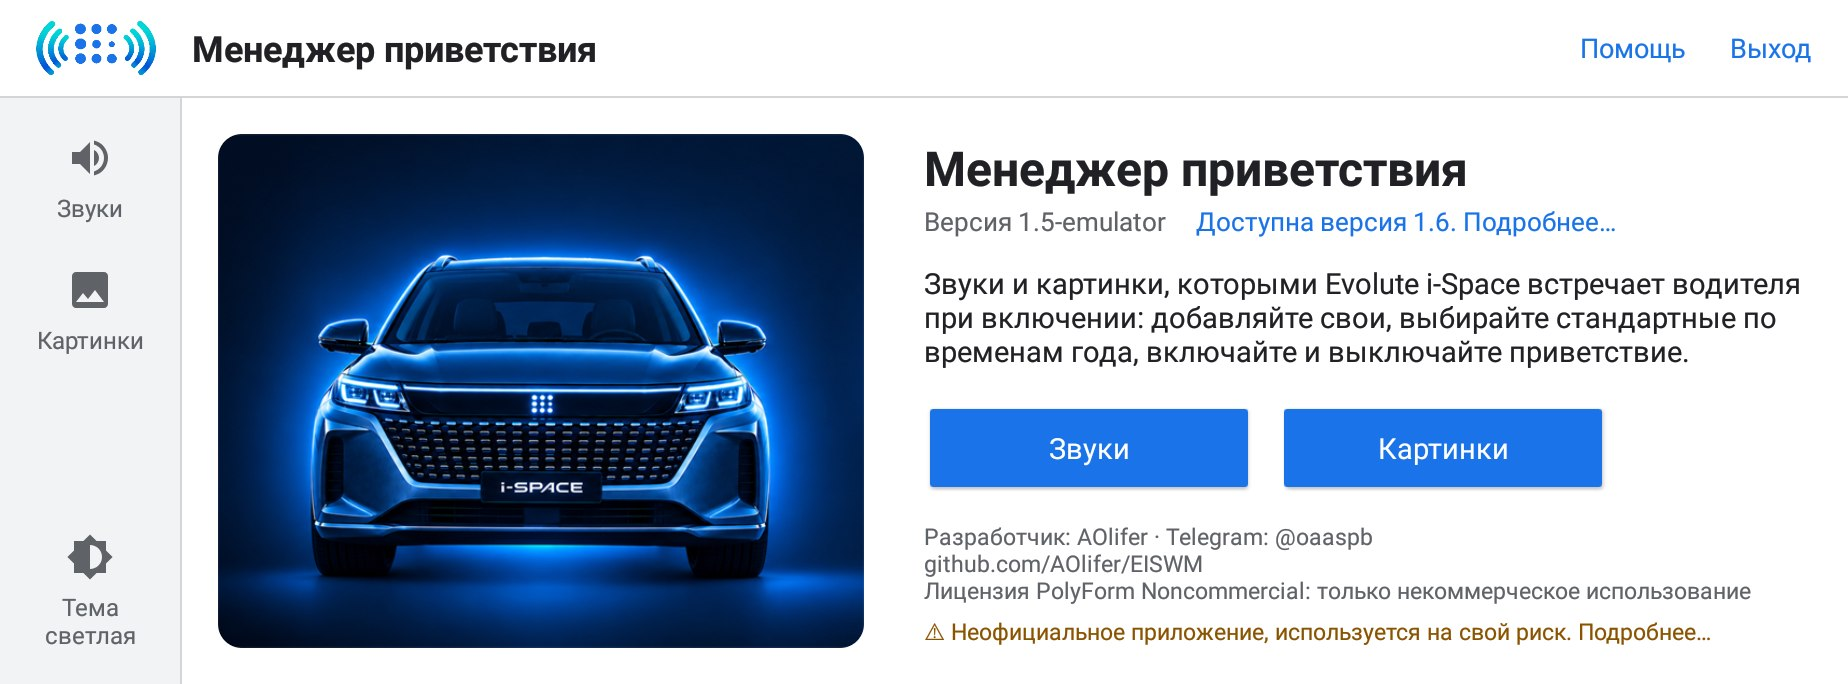
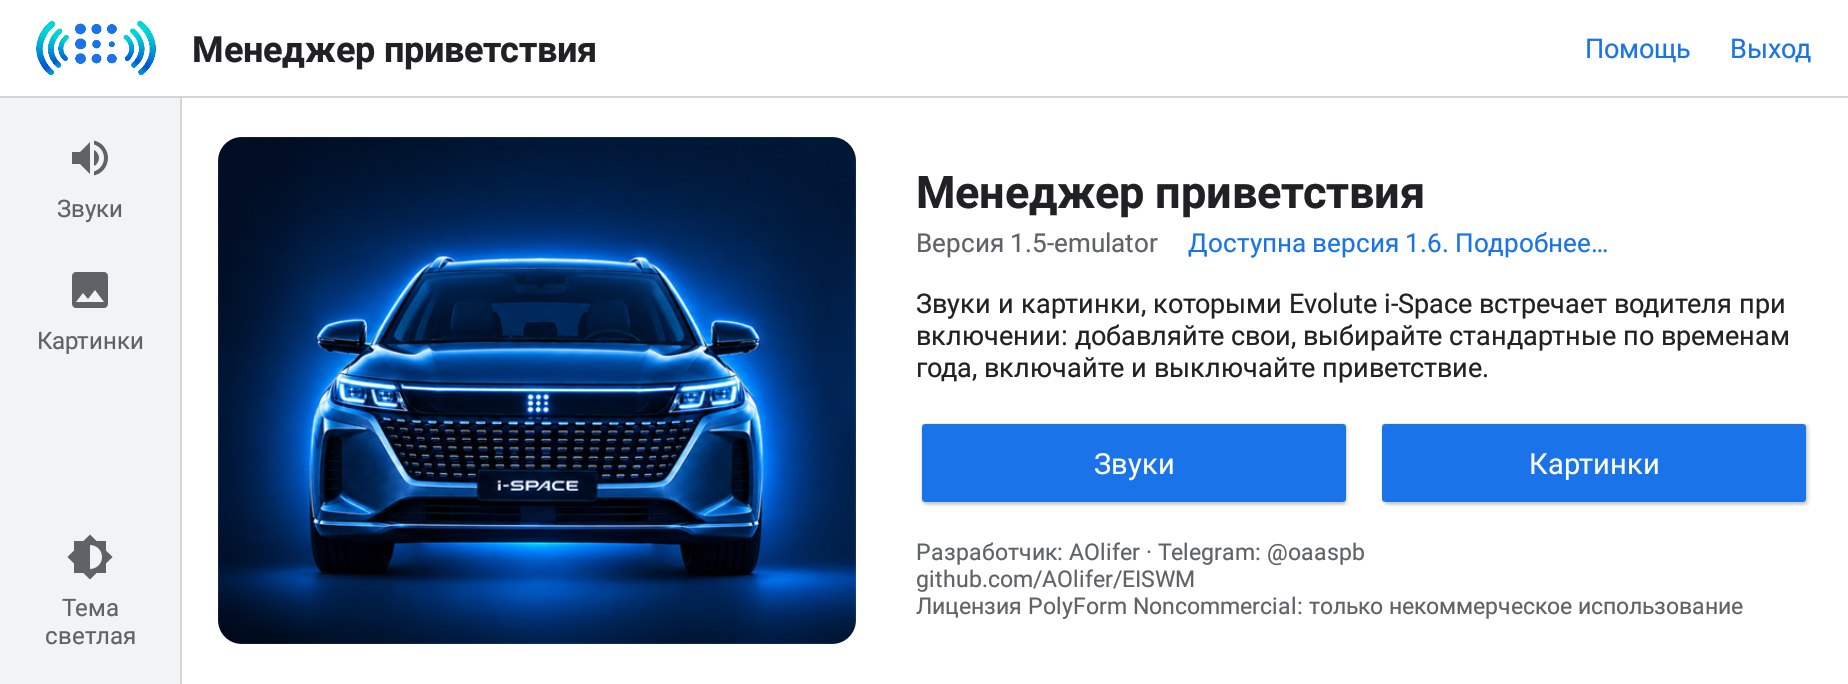
Предупреждение перенесено в «Помощь», вёрстка для окна не во весь экран

diff --git a/app/src/main/java/com/eiswm/MainActivity.java b/app/src/main/java/com/eiswm/MainActivity.java
@@ -274,6 +274,9 @@ public class MainActivity extends BaseActivity implements AudioPreview.Listener 
     private void setupHome() {
         homePanel = findViewById(R.id.homePanel);
         findViewById(R.id.homeImage).setClipToOutline(true);
+        homePanel.addOnLayoutChangeListener((v, l, t, r, b, ol, ot, or, ob) -> {
+            if (r - l != or - ol || b - t != ob - ot) v.post(this::fitHomeImage);
+        });
         String version = "";
         try {
             version = getPackageManager().getPackageInfo(getPackageName(), 0).versionName;
@@ -282,7 +285,6 @@ public class MainActivity extends BaseActivity implements AudioPreview.Listener 
         ((TextView) findViewById(R.id.homeVersion)).setText(getString(R.string.home_version, version));
         findViewById(R.id.homeSounds).setOnClickListener(v -> showSection(0));
         findViewById(R.id.homePictures).setOnClickListener(v -> showSection(1));
-        findViewById(R.id.homeDisclaimer).setOnClickListener(v -> showDisclaimer(false));
         findViewById(R.id.logo).setOnClickListener(v -> showSection(-1));
         findViewById(R.id.appTitle).setOnClickListener(v -> showSection(-1));
 
@@ -435,6 +437,26 @@ public class MainActivity extends BaseActivity implements AudioPreview.Listener 
     }
 
     /**
+     * Картинка стартового экрана во всю высоту панели, но не шире 40% её ширины: приложение
+     * бывает открыто не во весь экран (например, рядом с панелью лаунчера), и тексту нужно место.
+     */
+    private void fitHomeImage() {
+        View image = findViewById(R.id.homeImage);
+        android.graphics.drawable.Drawable d = ((android.widget.ImageView) image).getDrawable();
+        int availH = homePanel.getHeight() - homePanel.getPaddingTop() - homePanel.getPaddingBottom();
+        int availW = homePanel.getWidth() - homePanel.getPaddingLeft() - homePanel.getPaddingRight();
+        if (d == null || availH <= 0 || availW <= 0 || d.getIntrinsicHeight() <= 0) return;
+        float aspect = (float) d.getIntrinsicWidth() / d.getIntrinsicHeight();
+        int w = Math.min(Math.round(availH * aspect), Math.round(availW * 0.4f));
+        int h = Math.round(w / aspect);
+        LinearLayout.LayoutParams lp = (LinearLayout.LayoutParams) image.getLayoutParams();
+        if (lp.width == w && lp.height == h) return;
+        lp.width = w;
+        lp.height = h;
+        image.setLayoutParams(lp);
+    }
+
+    /**
      * Отказ от ответственности (полный текст — DISCLAIMER.md в репозитории).
      * @param firstRun показывается сам при первом запуске; после «Понятно» больше не появляется.
      */
@@ -453,8 +475,9 @@ public class MainActivity extends BaseActivity implements AudioPreview.Listener 
         if (currentSection < 0) {
             new AlertDialog.Builder(this)
                     .setTitle(R.string.app_name)
-                    .setMessage(R.string.home_help)
+                    .setMessage(getString(R.string.home_help) + "\n\n" + getString(R.string.home_disclaimer_short))
                     .setPositiveButton(R.string.got_it, null)
+                    .setNeutralButton(R.string.disclaimer_title, (d, w) -> showDisclaimer(false))
                     .show();
             return;
         }

diff --git a/app/src/main/java/com/eiswm/PicturesPanel.java b/app/src/main/java/com/eiswm/PicturesPanel.java
@@ -208,7 +208,7 @@ final class PicturesPanel {
                 : activity.getString(R.string.pictures_header));
         btnSelectAll.setEnabled(!busy && !current.isEmpty() && n < current.size());
         btnClear.setEnabled(!busy && n > 0);
-        btnDelete.setVisibility(n > 0 ? View.VISIBLE : View.INVISIBLE);
+        btnDelete.setVisibility(n > 0 ? View.VISIBLE : View.GONE);
         btnDelete.setEnabled(!busy);
         btnDelete.setText(activity.getString(R.string.pictures_delete_selected, n));
     }
@@ -294,6 +294,7 @@ final class PicturesPanel {
         date.setTextSize(15);
         date.setTextColor(activity.getColor(R.color.text_secondary));
         date.setSingleLine(true);
+        date.setEllipsize(android.text.TextUtils.TruncateAt.END);
         date.setText(describe(p));
         LinearLayout.LayoutParams dateLp = new LinearLayout.LayoutParams(0, -2, 1);
         dateLp.setMarginStart(Ui.dp(activity, 4));

diff --git a/docs/ANALYSIS.md b/docs/ANALYSIS.md
@@ -87,16 +87,21 @@ MP3-файлы лежат в каталоге
   для светлой (`drawable-nodpi/logo_header.png`) тот же знак на прозрачном фоне.
 - Стартовый экран: картинка машины (`home_car.png`, для светлой темы в скруглённой карточке,
   для тёмной с растворяющимися краями), название, версия, строка обновлений, описание, кнопки
-  разделов, разработчик, лицензия и строка отказа от ответственности.
+  разделов, разработчик и лицензия. Предупреждение и кнопка «Отказ от ответственности» — в «Помощи» стартового экрана.
 - Колонка разделов слева: «Звуки» и «Картинки», внизу «Тема» (авто, светлая, тёмная; «авто»
   следует ночному режиму системы). Новый раздел добавляется панелью в `activity_main.xml` и
   записью в `MainActivity.setupSections()`.
+- Окно бывает уже экрана (например, при запуске из лаунчера остаётся видна его боковая панель).
+  Картинка стартового экрана не шире 40% панели (`MainActivity.fitHomeImage()`), текст на нём
+  и боковые панели разделов прокручиваются, ширина боковых панелей задаётся в `dimens.xml`:
+  360 dp при ширине окна от 1100 dp (`values-w1100dp`), иначе 300 dp. Кнопки-ссылки не
+  переносятся на вторую строку, длинные подписи под картинками обрезаются многоточием.
 - Экран выбора файлов (`PickerActivity`) общий для звуков, картинок и выбора папки: список
   расширений, проверка длительности и режим выбора папки задаются через `Intent`.
 - «Выход» и системная «Назад» на главном экране закрывают приложение и убирают его из недавних;
   во время копирования приложение сначала спрашивает, дождаться ли его.
 - Отказ от ответственности показывается при первом запуске (флаг `disclaimer_shown`),
-  дальше — по ссылке на стартовом экране.
+  дальше — кнопкой «Отказ от ответственности» в «Помощи» стартового экрана.
 
 ## 4. Обновления
 

diff --git a/CHANGELOG.md b/CHANGELOG.md
@@ -51,6 +51,15 @@
 
 ### Изменено
 
+- Строка «⚠ Неофициальное приложение…» убрана со стартового экрана и перенесена в «Помощь»
+  стартового экрана вместе с кнопкой «Отказ от ответственности», которая открывает полный текст.
+- Вёрстка подстраивается под окно уже экрана машины (например, когда при запуске из лаунчера
+  остаётся видна его боковая панель): картинка на стартовом экране уменьшается, текст стартового
+  экрана и боковые панели разделов и стандартных картинок прокручиваются, боковые панели в узком
+  окне уже (300 dp вместо 360), кнопки на стартовом экране растягиваются по ширине колонки,
+  кнопки-ссылки («Выделить все», «Очистить») не переносятся на вторую строку, подпись под
+  картинкой обрезается многоточием, а «Удалить (N)» в разделе «Картинки» не занимает место,
+  пока ничего не выделено.
 - README сокращён до краткого описания, списка возможностей, установки и лицензии. Устройство
   проекта (механизм приветствия в лаунчере, интерфейс, обновления, сборка, эмулятор, подпись,
   иконка, ветки, сторонние материалы) перенесено в `docs/ANALYSIS.md`. Из документации убраны

diff --git a/docs/INSTRUCTION.md b/docs/INSTRUCTION.md
@@ -36,9 +36,12 @@
 ## 2. Стартовый экран
 
 Приложение всегда открывается со стартового экрана: картинка машины, название, версия и строка
-обновлений, кнопки
-**«Звуки»** и **«Картинки»**, контакты разработчика и лицензия. Строка
-«⚠ Неофициальное приложение… Подробнее…» снова открывает окно отказа от ответственности.
+обновлений, кнопки **«Звуки»** и **«Картинки»**, контакты разработчика и лицензия. Окно отказа
+от ответственности можно открыть снова: **«Помощь»** на стартовом экране, кнопка
+**«Отказ от ответственности»**.
+
+Если приложение открыто не во весь экран (например, рядом осталась панель лаунчера), картинка
+машины уменьшается, а текст и боковые панели разделов можно прокрутить.
 
 ![Стартовый экран](images/02_home.jpg)
 
